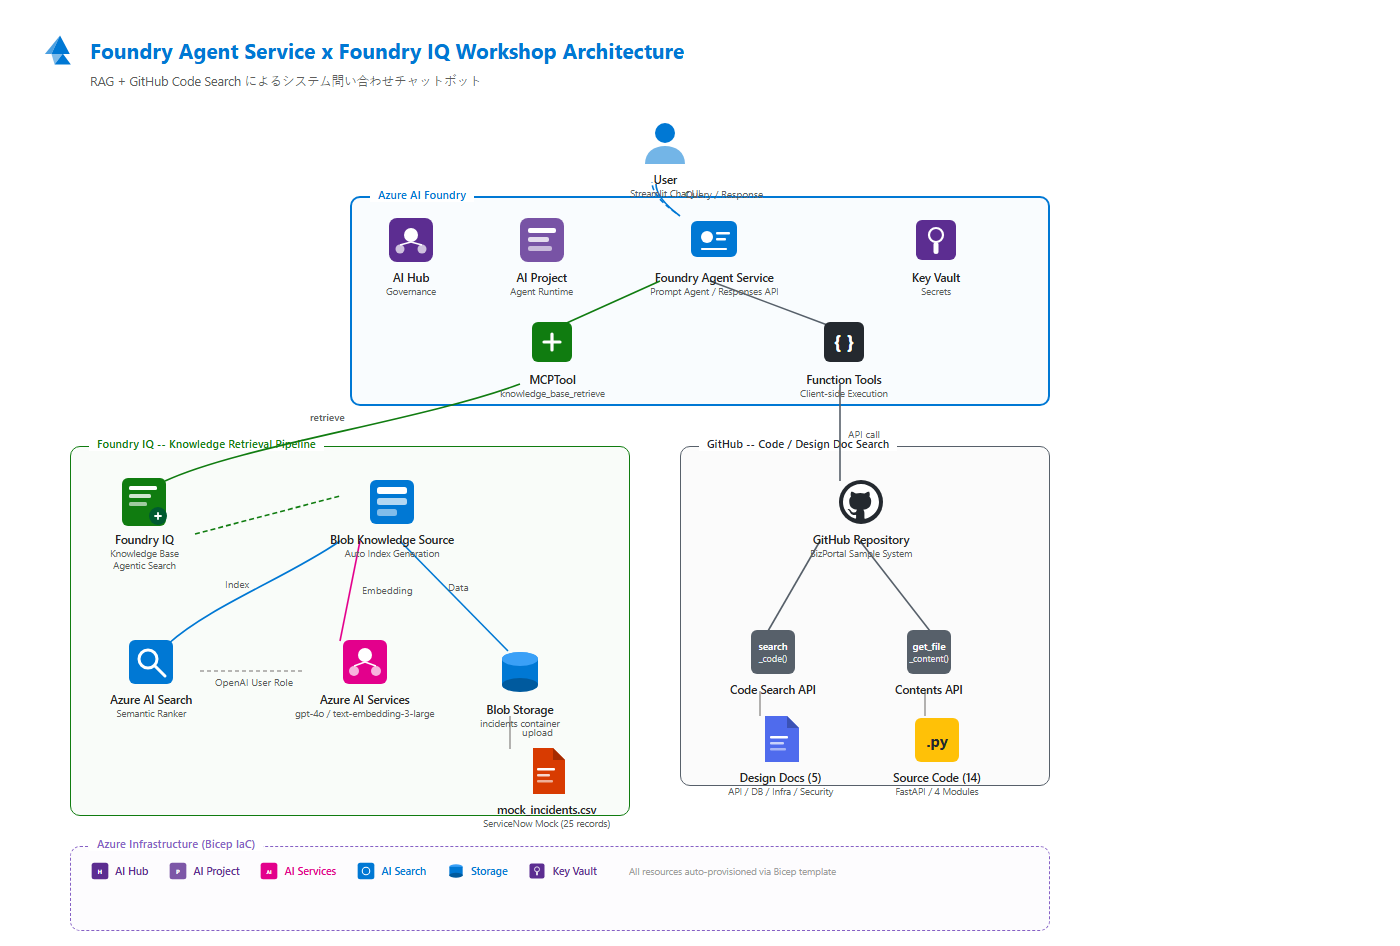
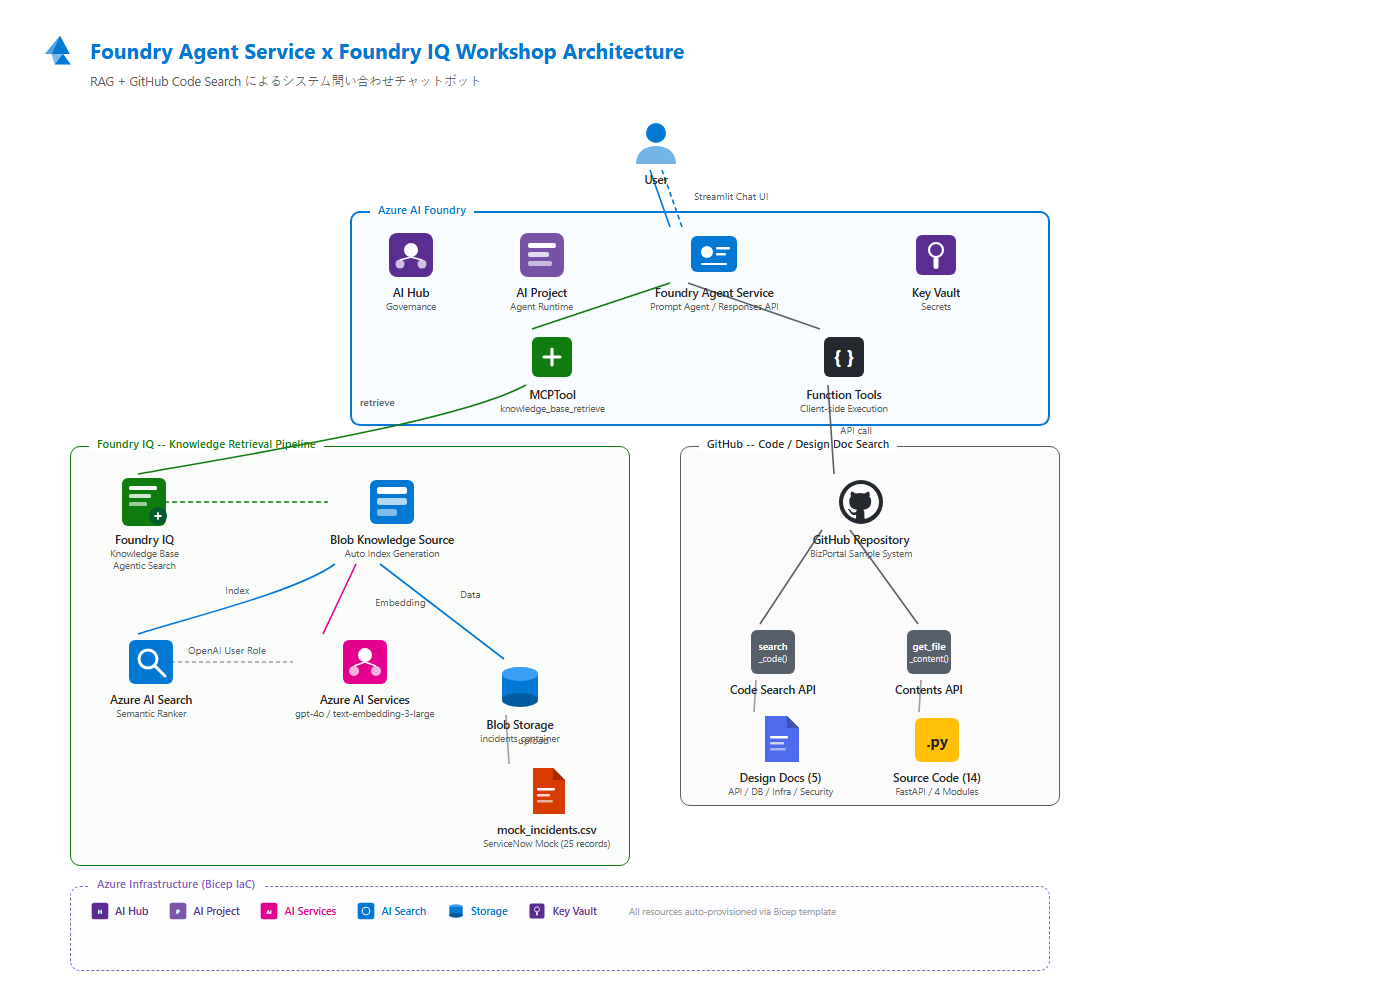
アーキテクチャ図のレイアウト改善: 矢印・テキスト重なり解消
- User サブテキストを矢印ラベルに移動し重なり解消
- Azure AI Foundry グループとノードを下方に移動しUser との間隔確保
- Blob KS からの矢印始点をラベル下に調整
- Index/Embedding/Data テキストを線から離して配置
- Blob Storage/CSV ノードの間隔拡大
- グループ高さとSVG viewBox を調整

diff --git a/docs/images/architecture.html b/docs/images/architecture.html
@@ -6,7 +6,7 @@
   * { margin: 0; padding: 0; box-sizing: border-box; }
   body {
     width: 1400px;
-    height: 940px;
+    height: 980px;
     background: #ffffff;
     font-family: 'Segoe UI', 'Yu Gothic', 'Meiryo', sans-serif;
     color: #1a1a1a;
@@ -16,7 +16,7 @@
   .title-bar h1 { font-size: 21px; font-weight: 700; color: #0078d4; }
   .subtitle { font-size: 12.5px; color: #605e5c; margin-bottom: 24px; padding-left: 50px; }
 
-  .diagram { position: relative; width: 1320px; height: 830px; }
+  .diagram { position: relative; width: 1320px; height: 870px; }
 
   /* ── Node ── */
   .node {
@@ -71,16 +71,16 @@
 <div class="diagram">
 
   <!-- ══════════ GROUPS ══════════ -->
-  <div class="grp azure" style="left:310px; top:80px; width:700px; height:210px;">
+  <div class="grp azure" style="left:310px; top:95px; width:700px; height:215px;">
     <span class="gl">Azure AI Foundry</span>
   </div>
-  <div class="grp kb" style="left:30px; top:330px; width:560px; height:370px;">
+  <div class="grp kb" style="left:30px; top:330px; width:560px; height:420px;">
     <span class="gl">Foundry IQ -- Knowledge Retrieval Pipeline</span>
   </div>
-  <div class="grp gh" style="left:640px; top:330px; width:370px; height:340px;">
+  <div class="grp gh" style="left:640px; top:330px; width:380px; height:360px;">
     <span class="gl">GitHub -- Code / Design Doc Search</span>
   </div>
-  <div class="grp infra" style="left:30px; top:730px; width:980px; height:85px;">
+  <div class="grp infra" style="left:30px; top:770px; width:980px; height:85px;">
     <span class="gl">Azure Infrastructure (Bicep IaC)</span>
   </div>
 
@@ -88,47 +88,46 @@
   <div class="node" style="left:590px; top:0px;">
     <svg class="ico" viewBox="0 0 52 52"><circle cx="26" cy="17" r="10" fill="#0078d4"/><path d="M6 48c0-12 9-18 20-18s20 6 20 18" fill="#0078d4" opacity=".55"/></svg>
     <div class="lbl">User</div>
-    <div class="sub">Streamlit Chat UI</div>
   </div>
 
   <!-- ══════════ ROW 1: FOUNDRY (inside azure group) ══════════ -->
   <!-- AI Hub -->
-  <div class="node" style="left:345px; top:98px;">
+  <div class="node" style="left:345px; top:113px;">
     <svg class="ico" viewBox="0 0 52 52"><rect x="4" y="4" width="44" height="44" rx="8" fill="#5c2d91"/><circle cx="26" cy="21" r="7" fill="#fff"/><circle cx="15" cy="35" r="4.5" fill="#fff" opacity=".7"/><circle cx="37" cy="35" r="4.5" fill="#fff" opacity=".7"/><line x1="26" y1="28" x2="15" y2="31" stroke="#fff" stroke-width="1.6"/><line x1="26" y1="28" x2="37" y2="31" stroke="#fff" stroke-width="1.6"/></svg>
     <div class="lbl">AI Hub</div>
     <div class="sub">Governance</div>
   </div>
 
   <!-- AI Project -->
-  <div class="node" style="left:470px; top:98px;">
+  <div class="node" style="left:470px; top:113px;">
     <svg class="ico" viewBox="0 0 52 52"><rect x="4" y="4" width="44" height="44" rx="8" fill="#5c2d91" opacity=".82"/><rect x="12" y="14" width="28" height="5" rx="2" fill="#fff"/><rect x="12" y="23" width="21" height="5" rx="2" fill="#fff" opacity=".8"/><rect x="12" y="32" width="24" height="5" rx="2" fill="#fff" opacity=".6"/></svg>
     <div class="lbl">AI Project</div>
     <div class="sub">Agent Runtime</div>
   </div>
 
   <!-- Agent Service -->
-  <div class="node" style="left:610px; top:98px;">
+  <div class="node" style="left:610px; top:113px;">
     <svg class="ico" viewBox="0 0 52 52"><rect x="3" y="7" width="46" height="36" rx="6" fill="#0078d4"/><circle cx="19" cy="23" r="6" fill="#fff"/><rect x="28" y="18" width="14" height="2.5" rx="1" fill="#fff"/><rect x="28" y="24" width="10" height="2.5" rx="1" fill="#fff"/><path d="M14 35h24" stroke="#fff" stroke-width="2.2" stroke-linecap="round"/></svg>
     <div class="lbl">Foundry Agent Service</div>
     <div class="sub">Prompt Agent / Responses API</div>
   </div>
 
   <!-- Key Vault -->
-  <div class="node" style="left:870px; top:98px;">
+  <div class="node" style="left:870px; top:113px;">
     <svg class="ico" viewBox="0 0 52 52"><rect x="6" y="6" width="40" height="40" rx="6" fill="#5c2d91"/><circle cx="26" cy="21" r="7" stroke="#fff" stroke-width="2.2" fill="none"/><rect x="23.5" y="28" width="5" height="12" rx="2.5" fill="#fff"/></svg>
     <div class="lbl">Key Vault</div>
     <div class="sub">Secrets</div>
   </div>
 
   <!-- MCPTool -->
-  <div class="node" style="left:460px; top:200px;">
+  <div class="node" style="left:460px; top:215px;">
     <svg class="ico" viewBox="0 0 52 52"><rect x="6" y="6" width="40" height="40" rx="6" fill="#107c10"/><path d="M18 26h16M26 18v16" stroke="#fff" stroke-width="3.2" stroke-linecap="round"/></svg>
     <div class="lbl">MCPTool</div>
     <div class="sub">knowledge_base_retrieve</div>
   </div>
 
   <!-- Function Tools -->
-  <div class="node" style="left:760px; top:200px;">
+  <div class="node" style="left:760px; top:215px;">
     <svg class="ico" viewBox="0 0 52 52"><rect x="6" y="6" width="40" height="40" rx="6" fill="#24292f"/><text x="26" y="33" text-anchor="middle" fill="#fff" font-size="20" font-weight="bold">{ }</text></svg>
     <div class="lbl">Function Tools</div>
     <div class="sub">Client-side Execution</div>
@@ -165,14 +164,14 @@
   </div>
 
   <!-- Blob Storage -->
-  <div class="node" style="left:440px; top:530px;">
+  <div class="node" style="left:440px; top:545px;">
     <svg class="ico" viewBox="0 0 52 52"><ellipse cx="26" cy="13" rx="18" ry="7" fill="#3aa0f7"/><rect x="8" y="13" width="36" height="26" fill="#0078d4"/><ellipse cx="26" cy="39" rx="18" ry="7" fill="#005a9e"/><ellipse cx="26" cy="13" rx="18" ry="7" fill="#3aa0f7"/></svg>
     <div class="lbl">Blob Storage</div>
     <div class="sub">incidents container</div>
   </div>
 
   <!-- Mock CSV -->
-  <div class="node" style="left:443px; top:630px;">
+  <div class="node" style="left:443px; top:650px;">
     <svg class="ico" viewBox="0 0 52 52"><path d="M12 2h20l12 12v34H12z" fill="#d83b01"/><path d="M32 2v12h12" fill="#a52a00"/><rect x="16" y="22" width="18" height="2.5" rx="1" fill="#fff"/><rect x="16" y="28" width="13" height="2.5" rx="1" fill="#fff" opacity=".8"/><rect x="16" y="34" width="16" height="2.5" rx="1" fill="#fff" opacity=".6"/></svg>
     <div class="lbl">mock_incidents.csv</div>
     <div class="sub">ServiceNow Mock (25 records)</div>
@@ -212,7 +211,13 @@
   </div>
 
   <!-- ══════════ ARROWS ══════════ -->
-  <svg class="arrows" viewBox="0 0 1320 830">
+  <!--
+    Arrow endpoint calculation:
+    Each node icon is 52x52. Center = (left+26, top+26).
+    Icon top edge = top, bottom edge = top+52, left edge = left, right edge = left+52.
+    Arrows connect to icon edges, not text.
+  -->
+  <svg class="arrows" viewBox="0 0 1320 870">
     <defs>
       <marker id="a-b" markerWidth="9" markerHeight="7" refX="9" refY="3.5" orient="auto"><path d="M0,0 L9,3.5 L0,7" fill="#0078d4"/></marker>
       <marker id="a-g" markerWidth="9" markerHeight="7" refX="9" refY="3.5" orient="auto"><path d="M0,0 L9,3.5 L0,7" fill="#107c10"/></marker>
@@ -222,63 +227,78 @@
       <marker id="a-b2" markerWidth="9" markerHeight="7" refX="0" refY="3.5" orient="auto"><path d="M9,0 L0,3.5 L9,7" fill="#0078d4"/></marker>
     </defs>
 
-    <!-- User -> Agent Service (bidirectional) -->
-    <path d="M616 68 Q616 82 640 100" class="ab" marker-end="url(#a-b)"/>
-    <path d="M636 97 Q612 80 612 66" class="ab" stroke-dasharray="5,3" marker-end="url(#a-b2)"/>
-    <text x="645" y="82" fill="#0078d4" font-size="9.5">Query / Response</text>
+    <!-- User <-> Agent Service (bidirectional) -->
+    <!-- User: cx=616, icon-bottom=52; Agent: cx=636, icon-top=113 -->
+    <line x1="610" y1="54" x2="630" y2="111" class="ab" marker-end="url(#a-b)"/>
+    <line x1="642" y1="111" x2="622" y2="54" class="ab" stroke-dasharray="5,3" marker-end="url(#a-b2)"/>
+    <text x="654" y="84" fill="#0078d4" font-size="9">Streamlit Chat UI</text>
 
     <!-- Agent -> MCPTool -->
-    <line x1="620" y1="165" x2="520" y2="210" class="ag" marker-end="url(#a-g)"/>
+    <!-- Agent: cx=636, icon-bottom=165; MCPTool: cx=486, icon-top=215 -->
+    <line x1="630" y1="167" x2="492" y2="213" class="ag" marker-end="url(#a-g)"/>
 
     <!-- Agent -> Function Tools -->
-    <line x1="670" y1="165" x2="790" y2="210" class="ad" marker-end="url(#a-d)"/>
+    <!-- Agent: cx=636, icon-bottom=165; Function: cx=786, icon-top=215 -->
+    <line x1="648" y1="167" x2="780" y2="213" class="ad" marker-end="url(#a-d)"/>
 
-    <!-- MCPTool -> Foundry IQ KB -->
-    <path d="M480 268 C380 305 200 330 125 365" class="ag" marker-end="url(#a-g)"/>
-    <text x="270" y="305" fill="#107c10" font-weight="600">retrieve</text>
+    <!-- MCPTool -> Foundry IQ KB (curved) -->
+    <!-- MCPTool: cx=486, icon-bottom=267; IQ: cx=96, icon-top=360 -->
+    <path d="M486 269 C420 305 200 340 98 358" class="ag" marker-end="url(#a-g)"/>
+    <text x="320" y="290" fill="#107c10" font-weight="600">retrieve</text>
 
-    <!-- KB -> Blob KS -->
-    <line x1="155" y1="418" x2="300" y2="380" class="ag" stroke-dasharray="5,3" marker-end="url(#a-g)"/>
+    <!-- Foundry IQ -> Blob KS (horizontal) -->
+    <!-- IQ: icon-right=122, cy=386; BlobKS: icon-left=290, cy=386 -->
+    <line x1="124" y1="386" x2="288" y2="386" class="ag" stroke-dasharray="5,3" marker-end="url(#a-g)"/>
 
-    <!-- Blob KS -> AI Search -->
-    <path d="M300 425 C250 460 170 490 128 528" class="ab" marker-end="url(#a-b)"/>
-    <text x="185" y="472" fill="#0078d4">Index</text>
+    <!-- Blob KS -> AI Search (curved) -->
+    <!-- BlobKS bottom: y=412; start below label text ~y=448; AISearch: icon-top=(96,520) -->
+    <path d="M295 448 C258 475 155 500 98 518" class="ab" marker-end="url(#a-b)"/>
+    <text x="185" y="478" fill="#0078d4">Index</text>
 
     <!-- Blob KS -> AI Services -->
-    <line x1="320" y1="425" x2="300" y2="525" class="ar" marker-end="url(#a-r)"/>
-    <text x="322" y="478" fill="#e3008c">Embedding</text>
+    <!-- BlobKS bottom ~y=448; AIServices: icon-top=(281,520) -->
+    <line x1="316" y1="448" x2="283" y2="518" class="ar" marker-end="url(#a-r)"/>
+    <text x="335" y="490" fill="#e3008c">Embedding</text>
 
     <!-- Blob KS -> Blob Storage -->
-    <line x1="360" y1="425" x2="468" y2="535" class="ab" marker-end="url(#a-b)"/>
-    <text x="408" y="475" fill="#0078d4">Data</text>
+    <!-- BlobKS bottom ~y=448; Blob: icon-top=(466,545) -->
+    <line x1="340" y1="448" x2="464" y2="543" class="ab" marker-end="url(#a-b)"/>
+    <text x="420" y="482" fill="#0078d4">Data</text>
 
-    <!-- CSV -> Blob Storage -->
-    <line x1="470" y1="633" x2="470" y2="600" class="ay" marker-end="url(#a-y)"/>
-    <text x="482" y="620" font-size="9">upload</text>
+    <!-- CSV -> Blob Storage (upward) -->
+    <!-- CSV: icon-top-center=(469,650); Blob: icon-bottom-center=(466,597) -->
+    <line x1="469" y1="648" x2="466" y2="599" class="ay" marker-end="url(#a-y)"/>
+    <text x="478" y="628" font-size="9">upload</text>
 
-    <!-- AI Search <-> AI Services (role) -->
-    <line x1="160" y1="555" x2="265" y2="555" stroke-dasharray="4,3" class="ay" marker-end="url(#a-y)"/>
-    <text x="175" y="570" font-size="8.5" fill="#605e5c">OpenAI User Role</text>
+    <!-- AI Search <-> AI Services (horizontal, dashed) -->
+    <!-- AISearch: icon-right=122, cy=546; AIServices: icon-left=255, cy=546 -->
+    <line x1="124" y1="546" x2="253" y2="546" stroke-dasharray="4,3" class="ay" marker-end="url(#a-y)"/>
+    <text x="148" y="538" font-size="8.5" fill="#605e5c">OpenAI User Role</text>
 
     <!-- Function Tools -> GitHub Repo -->
-    <line x1="800" y1="268" x2="800" y2="365" class="ad" marker-end="url(#a-d)"/>
-    <text x="808" y="322" fill="#57606a">API call</text>
+    <!-- Function: cx=786, icon-bottom=267; GitHub: cx=796, icon-top=360 -->
+    <line x1="788" y1="269" x2="794" y2="358" class="ad" marker-end="url(#a-d)"/>
+    <text x="800" y="318" fill="#57606a">API call</text>
 
     <!-- GitHub -> Code Search -->
-    <line x1="780" y1="425" x2="728" y2="515" class="ad" marker-end="url(#a-d)"/>
+    <!-- GitHub: icon-bottom=(796,412); CodeSearch: icon-top=(716,510) -->
+    <line x1="782" y1="414" x2="720" y2="508" class="ad" marker-end="url(#a-d)"/>
 
-    <!-- GitHub -> Contents -->
-    <line x1="820" y1="425" x2="890" y2="515" class="ad" marker-end="url(#a-d)"/>
+    <!-- GitHub -> Contents API -->
+    <!-- GitHub: icon-bottom=(796,412); Contents: icon-top=(881,510) -->
+    <line x1="810" y1="414" x2="878" y2="508" class="ad" marker-end="url(#a-d)"/>
 
-    <!-- Code Search -> Docs -->
-    <line x1="720" y1="575" x2="720" y2="600" class="ay" marker-end="url(#a-y)"/>
+    <!-- Code Search -> Design Docs -->
+    <!-- CodeSearch: icon-bottom=(716,562); Docs: icon-top=(714,598) -->
+    <line x1="716" y1="564" x2="714" y2="596" class="ay" marker-end="url(#a-y)"/>
 
-    <!-- Contents -> Source -->
-    <line x1="885" y1="575" x2="885" y2="600" class="ay" marker-end="url(#a-y)"/>
+    <!-- Contents -> Source Code -->
+    <!-- Contents: icon-bottom=(881,562); Source: icon-top=(879,598) -->
+    <line x1="881" y1="564" x2="879" y2="596" class="ay" marker-end="url(#a-y)"/>
   </svg>
 
   <!-- ══════════ INFRA FOOTER ══════════ -->
-  <div style="position:absolute; left:50px; top:745px; display:flex; gap:20px; align-items:center; flex-wrap:wrap;">
+  <div style="position:absolute; left:50px; top:785px; display:flex; gap:20px; align-items:center; flex-wrap:wrap;">
     <div style="display:flex; align-items:center; gap:5px;">
       <svg width="20" height="20" viewBox="0 0 48 48"><rect x="4" y="4" width="40" height="40" rx="6" fill="#5c2d91"/><text x="24" y="30" text-anchor="middle" fill="#fff" font-size="15" font-weight="bold">H</text></svg>
       <span style="font-size:10.5px; color:#5c2d91; font-weight:600;">AI Hub</span>
